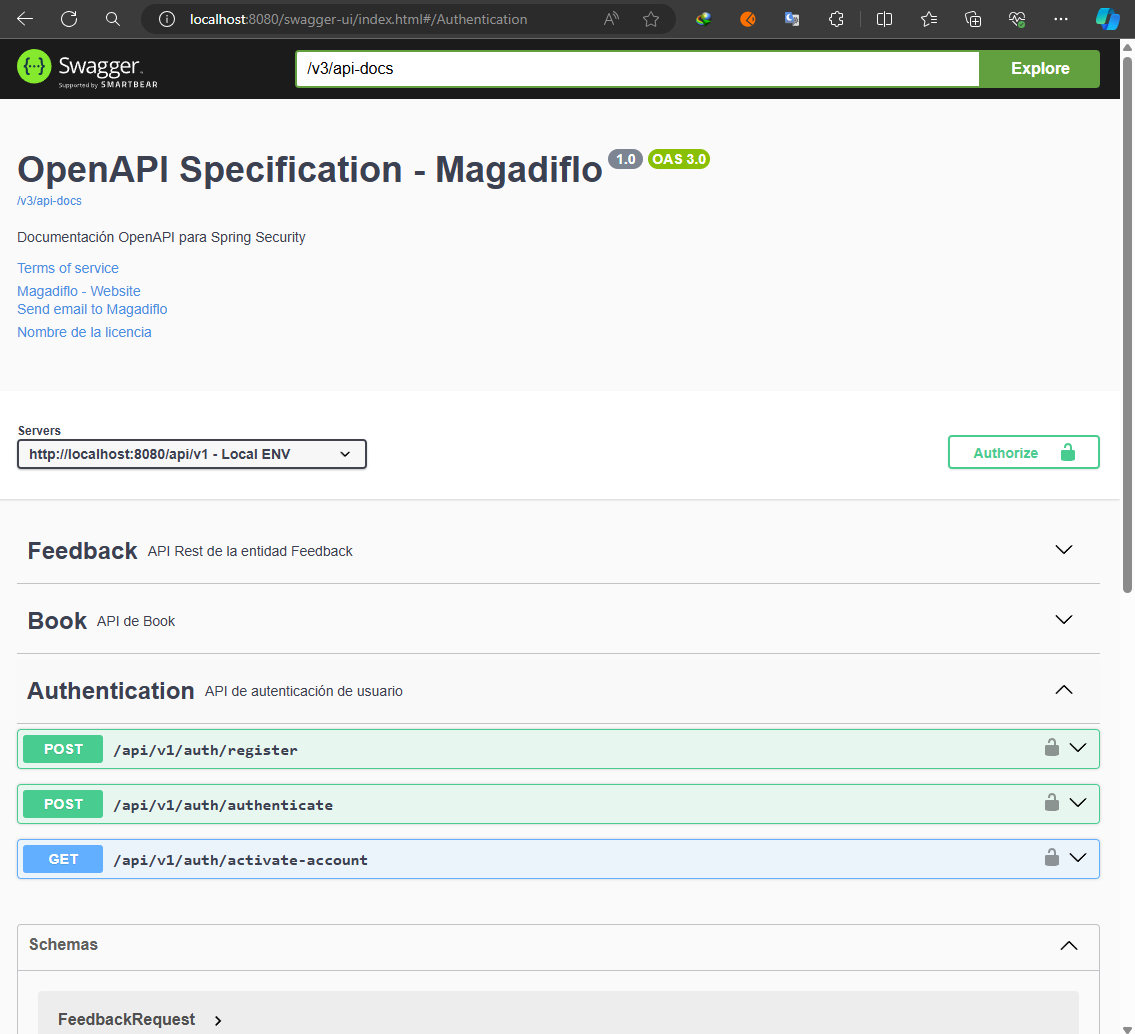
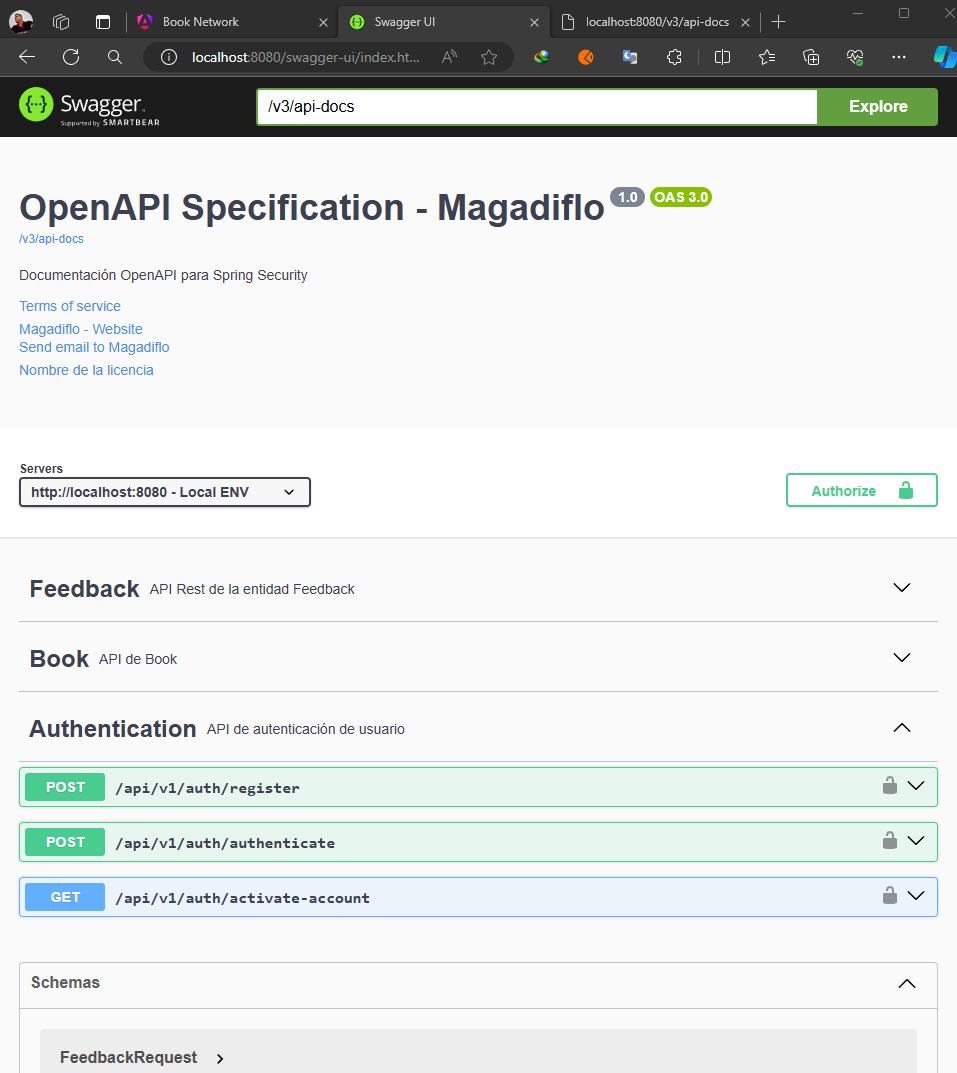
backend - Corrige url del servidor backend en la configuración de OpenAPI

diff --git a/book-network-backend/src/main/java/dev/magadiflo/book/network/app/config/OpenApiConfig.java b/book-network-backend/src/main/java/dev/magadiflo/book/network/app/config/OpenApiConfig.java
@@ -27,8 +27,8 @@ import io.swagger.v3.oas.annotations.servers.Server;
                 termsOfService = "Términos de servicio"
         ),
         servers = {
-                @Server(description = "Local ENV", url = "http://localhost:8080/api/v1"),
-                @Server(description = "Prod ENV", url = "https://magadiflo.com/courses")
+                @Server(description = "Local ENV", url = "http://localhost:8080"),
+                @Server(description = "Prod ENV", url = "https://magadiflo.com")
         },
         security = {@SecurityRequirement(name = "bearerAuth")}
 )

diff --git a/book-network-backend/README.md b/book-network-backend/README.md
@@ -3921,8 +3921,8 @@ rutas para poder ver los endpoints con `Swagger`. Ahora, en este apartado creare
                 termsOfService = "Términos de servicio"
         ),
         servers = {
-                @Server(description = "Local ENV", url = "http://localhost:8080/api/v1"),
-                @Server(description = "Prod ENV", url = "https://magadiflo.com/courses")
+                @Server(description = "Local ENV", url = "http://localhost:8080"),
+                @Server(description = "Prod ENV", url = "https://magadiflo.com")
         },
         security = {@SecurityRequirement(name = "bearerAuth")}
 )
